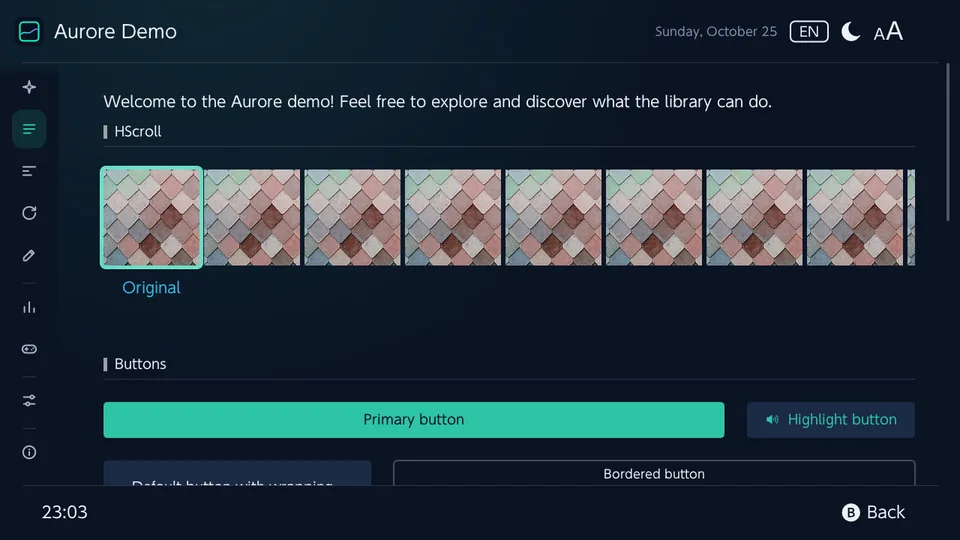
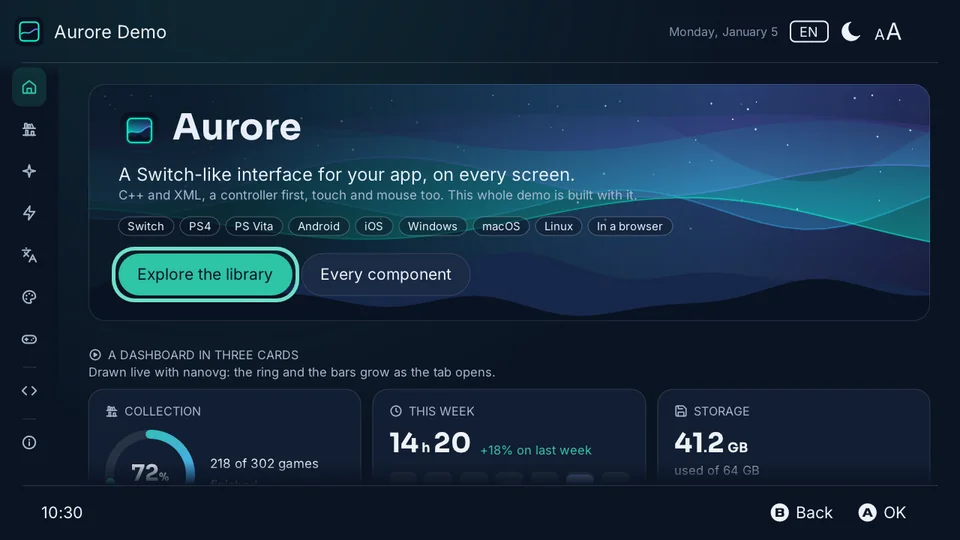
feat(site): Aurore's card shows its new demo (#17)
Aurore's card now shows the new demo's Welcome tab instead of the old demo's first tab, with its description rewritten in the fifteen catalogues. Card captures get min-width: 0, so a capture that fails to load can no longer widen its card past a phone's screen.

diff --git a/site/assets/site.css b/site/assets/site.css
@@ -172,7 +172,7 @@ main section.closing { padding-top: 0; }
   background: var(--night); border: 1px solid var(--night-line); border-radius: 20px;
 }
 .project .shot {
-  display: block; width: 100%; height: auto; aspect-ratio: 16 / 9; border-radius: 10px;
+  display: block; width: 100%; min-width: 0; height: auto; aspect-ratio: 16 / 9; border-radius: 10px;
   border: 1px solid var(--night-line); background: var(--abyss);
 }
 .project .head { display: flex; align-items: flex-start; gap: 14px; }

diff --git a/site/README.md b/site/README.md
@@ -13,7 +13,7 @@ A first visit to the root goes to the browser's language when the site has it (C
 - **The home page's showcase** (site.css's and site.js's "showcase" blocks, the same in PlayGuard's, PlayShelf's and Aurore's sites, adapted to each one's markup): the night going on down the page (veils of aurora, faint stars, a horizon over the footer); the projects' cards, larger, their parts on the same rows (a subgrid), lifting under the pointer, their edge lit where it is and the project's mark glowing; the latest releases as a timeline (still a list: the dates beside a line of aurora, a dot on it for each release); the sections rising into view once; a short cross-fade from one page to the next where the browser can. Without script, or with less motion asked, everything stays in place.
 - `i18n/<language>.json`: each `{{key}}`'s text, one catalog per language, fifteen (`en.json` the reference; `fr-CA.json`, `es-419.json`, `pt-BR.json`, `zh-Hans.json`, `zh-Hant.json` by the apps' codes). The names of screens and features are the apps' own (PlayGuard's, PlayShelf's and Aurore's catalogs), the menu of Boréale's sites' texts PlayGuard's site's word for word; each language's typography (French spaces before `:` and, in France, `;` `?` `!`; «» in Russian; „“ in German; CJK punctuation). Chinese, Japanese and Korean lines break as each script wants (site.css: Japanese between phrases, Korean between words, Chinese never before a punctuation mark, its titles where the catalog's `<wbr>` says). The fonts have only Latin letters: the other scripts are drawn by the system's. A release's date is written as each language does (`MONTHS`, `DATES`); its lede, in English, is on the English pages only.
 - The projects' links are in `build_site.py` (`PROJECTS`): PlayGuard at `guard.boreale.dev`, PlayShelf at `shelf.boreale.dev`, Aurore at `aurore.boreale.dev`, each in the same language folder as the page (the four sites share the fifteen folders), with their simulators in the page's language (`?lang=`, the apps' codes) and Aurore's demo in it where its menu has it (`DEMO_LANGUAGES`; else the browser's).
-- `assets/shots/`: one capture per project, 960×540 WebP, each in its dark theme as the site is: PlayGuard's `images/screenshots/dashboard.png` and Aurore's `.github/readme/components.png` from their repositories, PlayShelf's catalogue from its site (`assets/images/screenshots/en-US/catalogue-dark.webp` at shelf.boreale.dev, made by its `tools/site_screenshots.py`; the one in its repository is the light theme). Made-up games only.
+- `assets/shots/`: one capture per project, 960×540 WebP, each in its dark theme as the site is: PlayGuard's `images/screenshots/dashboard.png` and Aurore's `.github/readme/cadran.png` (its demo's Welcome tab) from their repositories, scaled down, PlayShelf's catalogue from its site (`assets/images/screenshots/en-US/catalogue-dark.webp` at shelf.boreale.dev, made by its `tools/site_screenshots.py`; the one in its repository is the light theme). Made-up games only.
 - **The projects' releases**, read from GitHub's API at each build: the latest version on each card, the five latest releases on the home page, the last twenty in `feed.atom`, each with its lede (the first paragraph of its notes that is only text; on the English pages only, the notes being in English); a project without a release says so on its card. `GITHUB_TOKEN` lifts the API's anonymous limit; `SITE_OFFLINE=1` builds without them (no version, no releases section); `SITE_STRICT=1` fails when they cannot be read rather than build without them (main's workflow).
 - **For search engines**: schema.org data on each page (Boréale, its site, each project and its latest version), each page's languages (`hreflang`, in the pages and in `sitemap.xml`), `robots.txt`, the social preview with its locales; `manifest.webmanifest` and `favicon.ico` (written by `tools/export-branding.mjs`) for browsers.
 - `assets/`: the CSS, the script, the marks, the icons, the social preview and the fonts (SIL Open Font License; the flags' CC-BY 4.0), served with the site so that no visitor's browser loads anything from anyone else.
